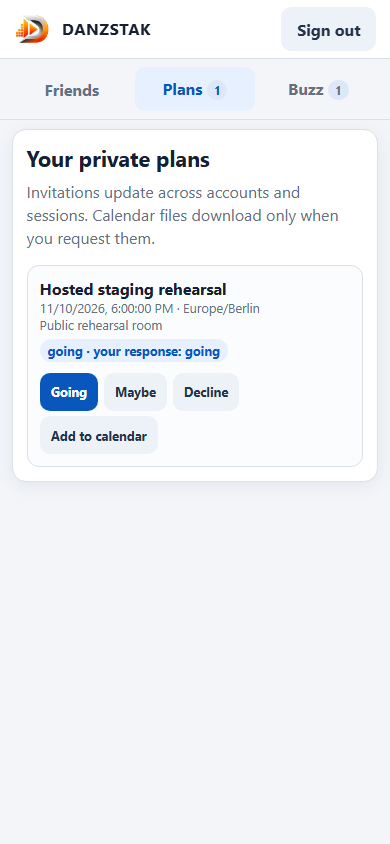
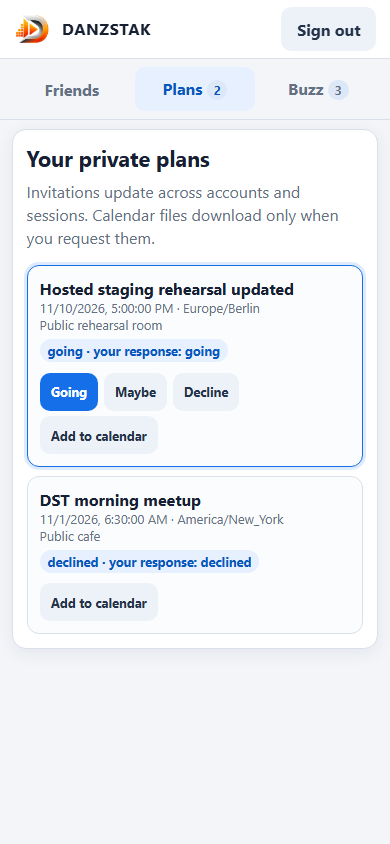
docs: complete Make Plans staging evidence

diff --git a/docs/ISSUE-24-MAKE-PLANS-MVP.md b/docs/ISSUE-24-MAKE-PLANS-MVP.md
@@ -51,13 +51,14 @@ The original preview correctly could not use production cookies or API CORS. A s
 - A controlled three-account run passed: A/B friend request and acceptance, A invitation, B Going response, C empty plan list, C mutation rejection, stale-revision rejection, inviter cancellation and two private Buzz notices.
 - A separate retry run passed deterministic idempotency: the same key returned the same plan with `replayed: true`, left one stored invitation, and rejected an invalid IANA timezone.
 - `node test-make-plans-preview.cjs` passed the review UI at 320, 360, 390 and 414px with no horizontal/dialog overflow and 44px action targets. Evidence: [320px](screenshots/issue-24-make-plans/staging-review-320.png), [360px](screenshots/issue-24-make-plans/staging-review-360.png), [390px](screenshots/issue-24-make-plans/staging-review-390.png), [414px](screenshots/issue-24-make-plans/staging-review-414.png).
-- Amplify DEVELOPMENT job `6` deployed commit `254afa1e165e427cb8154d02f454e94a59857d0f`. `node scripts/verify-make-plans-staging.cjs` then passed the actual hosted UI across three fresh browser accounts: create A/B/C, A requests B, B accepts A, B opens the 1:1 Chat and sends a plan, A signs in and responds Going, and C signs in with zero visible plans. [Hosted 390px evidence](screenshots/issue-24-make-plans/staging-live-390.png).
+- Amplify DEVELOPMENT job `8` deployed commit `2c24f312cc3e20187f8583461fb0a9e03d7a44fe`. `node scripts/verify-make-plans-staging.cjs` then passed the actual hosted UI across three fresh browser accounts: create A/B/C, accepted friendship, 1:1 Chat entry, create and edit, edit resets invitee to Pending, Maybe/Going/Declined, New York DST-boundary storage, user-triggered `.ics` content, offline draft preservation, authenticated `?plan=` deep link, history retained after unfriend, new invite blocked after unfriend, and zero plans for C. [Hosted 390px evidence](screenshots/issue-24-make-plans/staging-live-390.png).
 - A clean hosted-browser check found the service worker activated and controlling the page with the sole cache `danzstak-shell-v668-issue24-preview`.
 
 The isolated preview is real persistent staging, not a static demonstration. Remaining work is:
 
-1. verify successful edit, Maybe/Declined, history after unfriend, DST boundaries, `.ics`, offline/reconnect and deep links in the hosted build;
-2. complete owner and physical Android/iPhone review;
-3. merge only after owner approval, then deploy the already-integrated production implementation through the normal release gates.
+1. complete owner and physical Android/iPhone review;
+2. merge only after owner approval, then deploy the already-integrated production implementation through the normal release gates.
+
+CloudFormation service validation and the repository infrastructure gate passed, and both staging stacks reached `CREATE_COMPLETE`/`UPDATE_COMPLETE`. `cfn-lint` and `cfn-guard` are not installed in this workstation, so those optional local/compliance layers were not run; AWS service validation and successful stack deployment are not represented as substitutes for them.
 
 Production deployment and merge remain prohibited until explicit owner approval.

diff --git a/docs/DANZSTAK-DEVELOPMENT-REPORT.md b/docs/DANZSTAK-DEVELOPMENT-REPORT.md
@@ -849,8 +849,8 @@ Status as of 2026-11-04: **DEPLOYED AND BROWSER-PLAYBACK VERIFIED; PHYSICAL-DEVI
 - **COMPLETE — isolated staging backend:** CloudFormation stacks `danzstak-make-plans-preview-artifacts` and `danzstak-make-plans-preview` were created in `us-west-1`. The latter uses a separate username-only Cognito pool, JWT-authorized HTTP API (`https://dr3dwdkzqb.execute-api.us-west-1.amazonaws.com`), Lambda and encrypted/PITR DynamoDB table. Exact-origin CORS permits only the Issue #24 Amplify development branch. No production identity, cookie, API, table, or user record is reused.
 - **PASS — real A/B/C workflow:** three authenticated staging accounts proved accepted friendship, invitation persistence, B response synchronization, C list isolation, C mutation rejection, optimistic stale-revision rejection, inviter cancellation and private Buzz notices. A separate retry run proved one-record idempotency and invalid-IANA-timezone rejection.
 - **PASS — staging review UI:** `node test-make-plans-preview.cjs` rendered the real staging client at 320, 360, 390 and 414px, verified no horizontal/dialog overflow and 44px action targets, and captured `screenshots/issue-24-make-plans/staging-review-*.png`.
-- **PASS — hosted three-account browser workflow:** Amplify DEVELOPMENT job `6` deployed commit `254afa1e165e427cb8154d02f454e94a59857d0f`. `node scripts/verify-make-plans-staging.cjs` created three fresh isolated accounts through the hosted UI, completed friend request/acceptance, opened the accepted 1:1 Chat, sent a private invitation, signed into the other account and responded Going, then proved unrelated account C had zero plans. Screenshot: `docs/screenshots/issue-24-make-plans/staging-live-390.png`.
+- **PASS — hosted three-account browser workflow:** Amplify DEVELOPMENT job `8` deployed commit `2c24f312cc3e20187f8583461fb0a9e03d7a44fe`. `node scripts/verify-make-plans-staging.cjs` created three fresh isolated accounts through the hosted UI and passed accepted friendship, 1:1 Chat entry, create/edit with Pending reset, Maybe/Going/Declined, a New York DST-boundary plan, `.ics` content, offline draft retention, authenticated deep linking, history after unfriend, denial of a new invite after unfriend, and zero plans for C. Screenshot: `docs/screenshots/issue-24-make-plans/staging-live-390.png`.
 - **PASS — hosted PWA delivery:** the review page and assets return HTTP 200; a clean browser found the worker activated and controlling the page with only `danzstak-shell-v668-issue24-preview` present.
-- **IN PROGRESS — remaining review gates:** successful edit, Maybe/Declined, history after unfriend, DST/ICS/offline/deep-link behavior, owner review and physical Android/iPhone evidence are not yet claimed.
+- **IN PROGRESS — remaining review gates:** owner review and physical Android/iPhone evidence are not yet claimed. `cfn-lint` and `cfn-guard` are unavailable on this workstation; repository infrastructure tests, AWS service validation and successful isolated-stack deployment passed, but are not represented as those missing compliance layers.
 - Production remains unchanged. Draft PR: `https://github.com/danzstak/danzstak-web/pull/26`.
 
